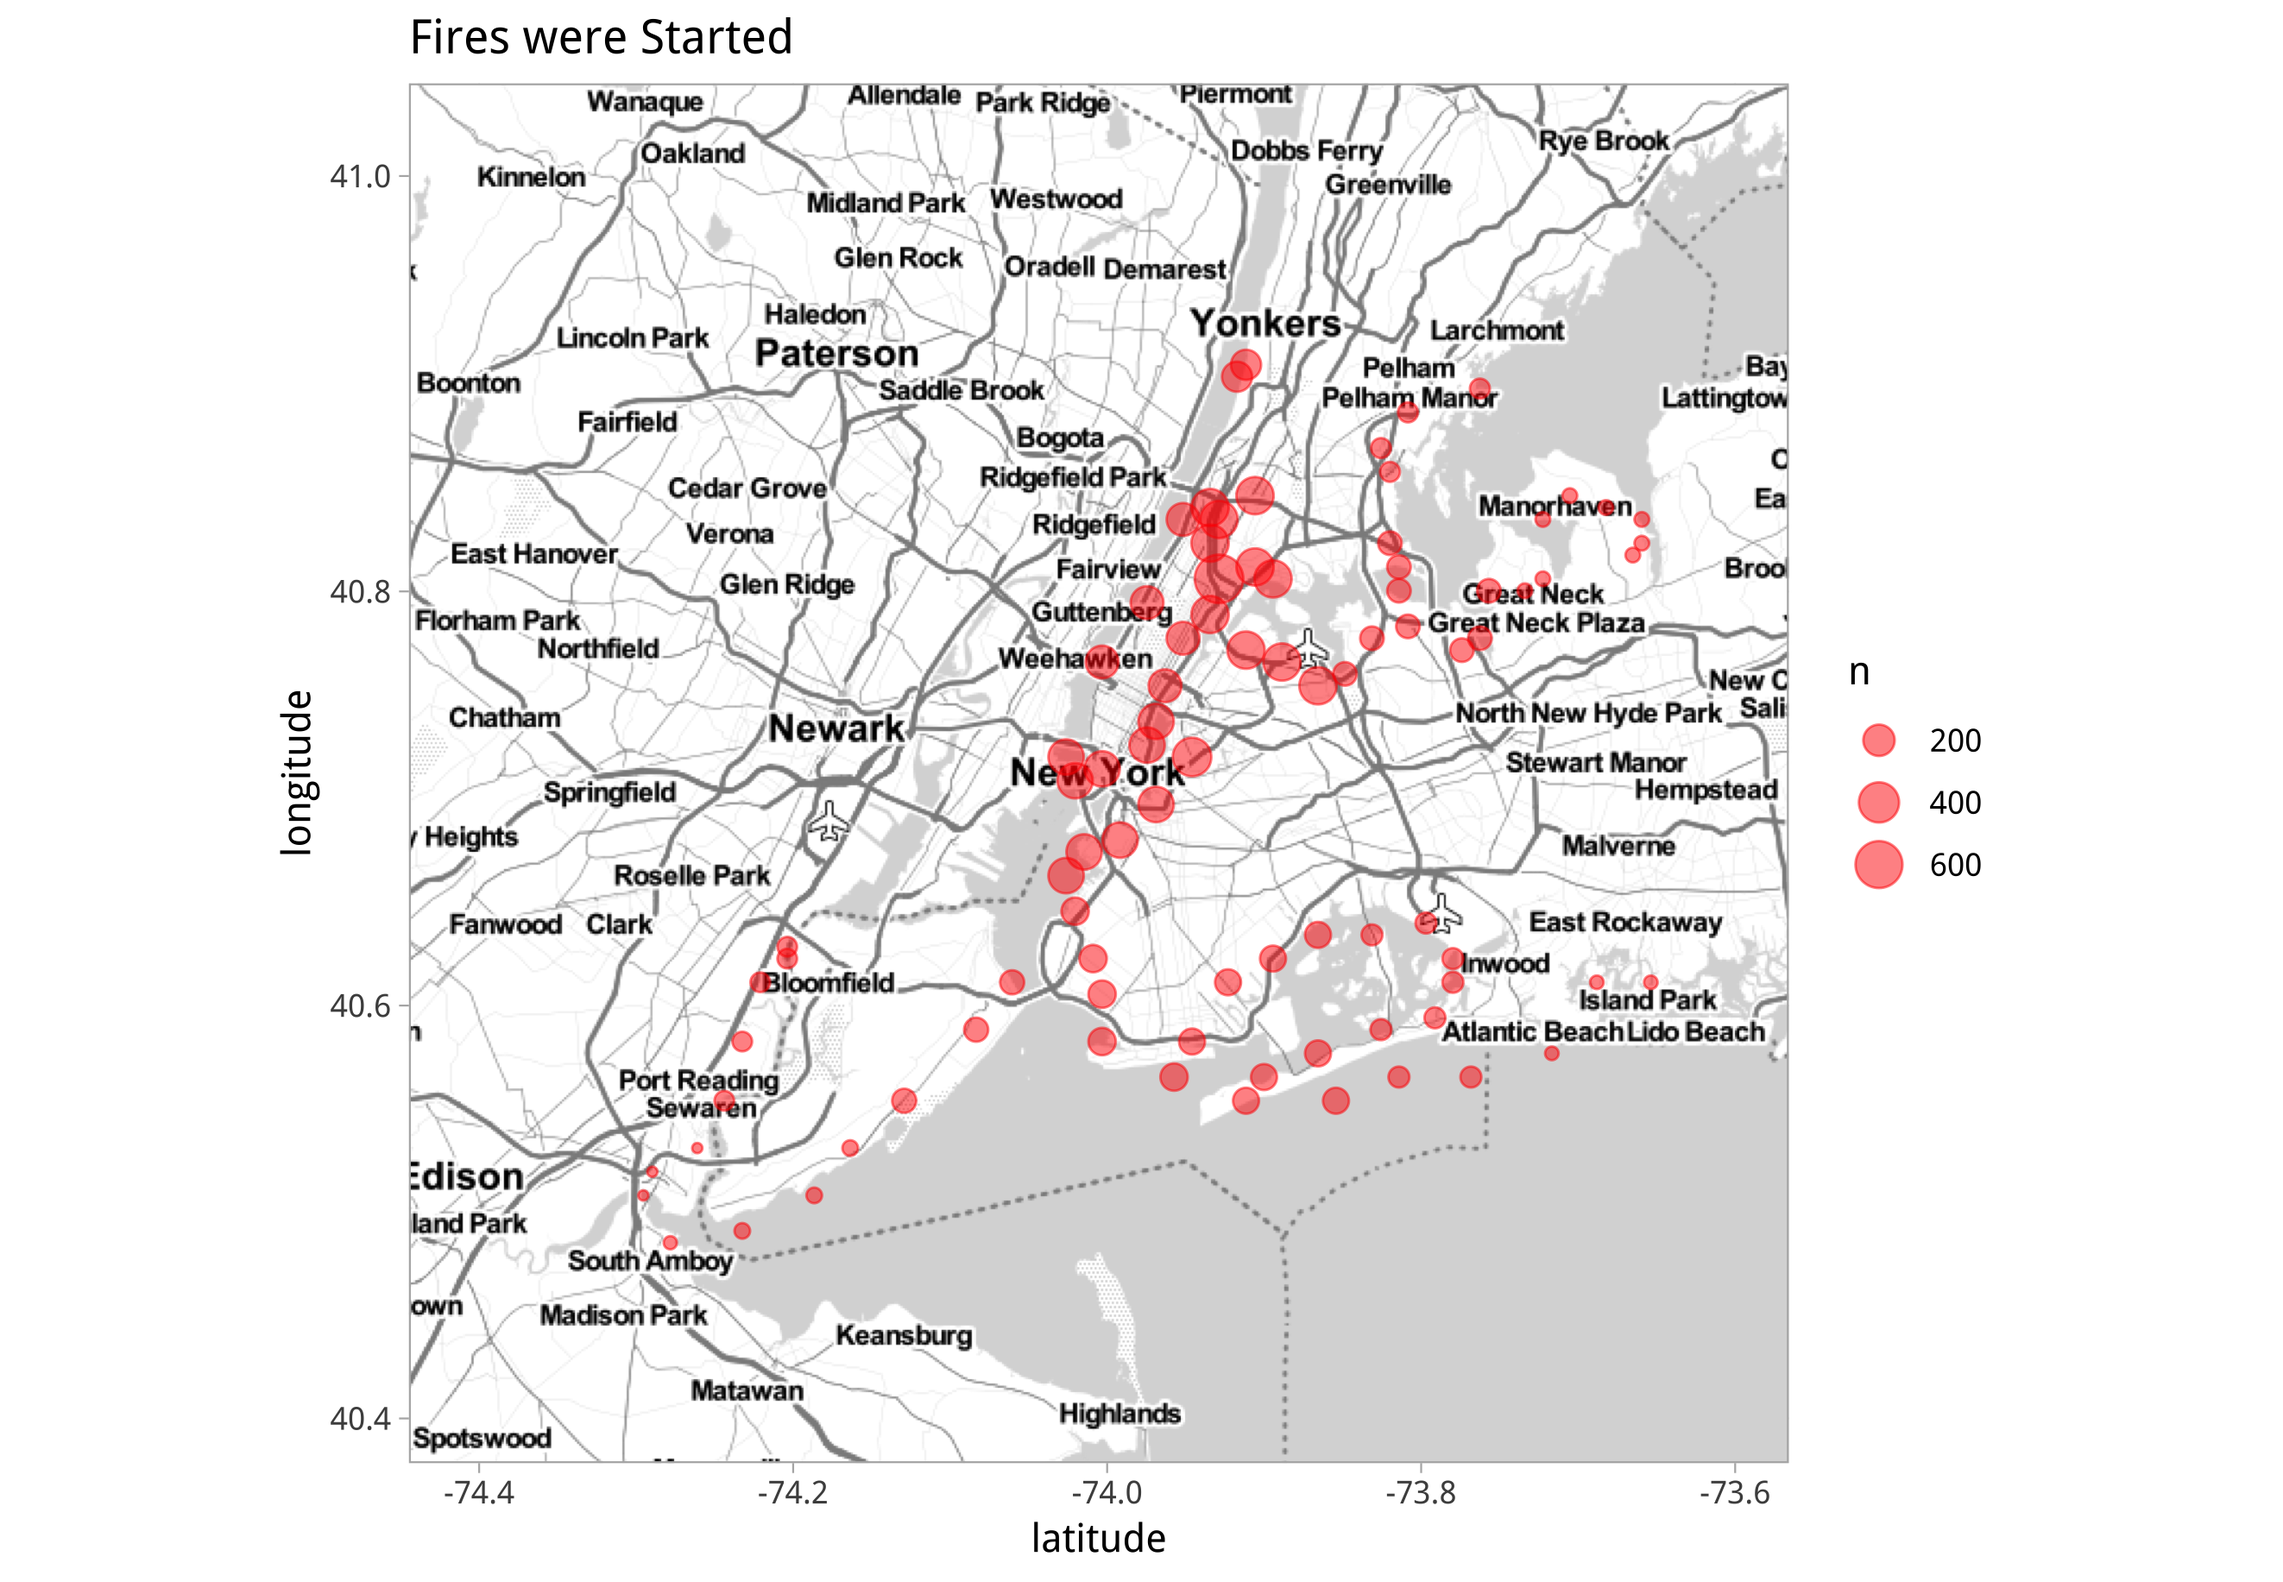
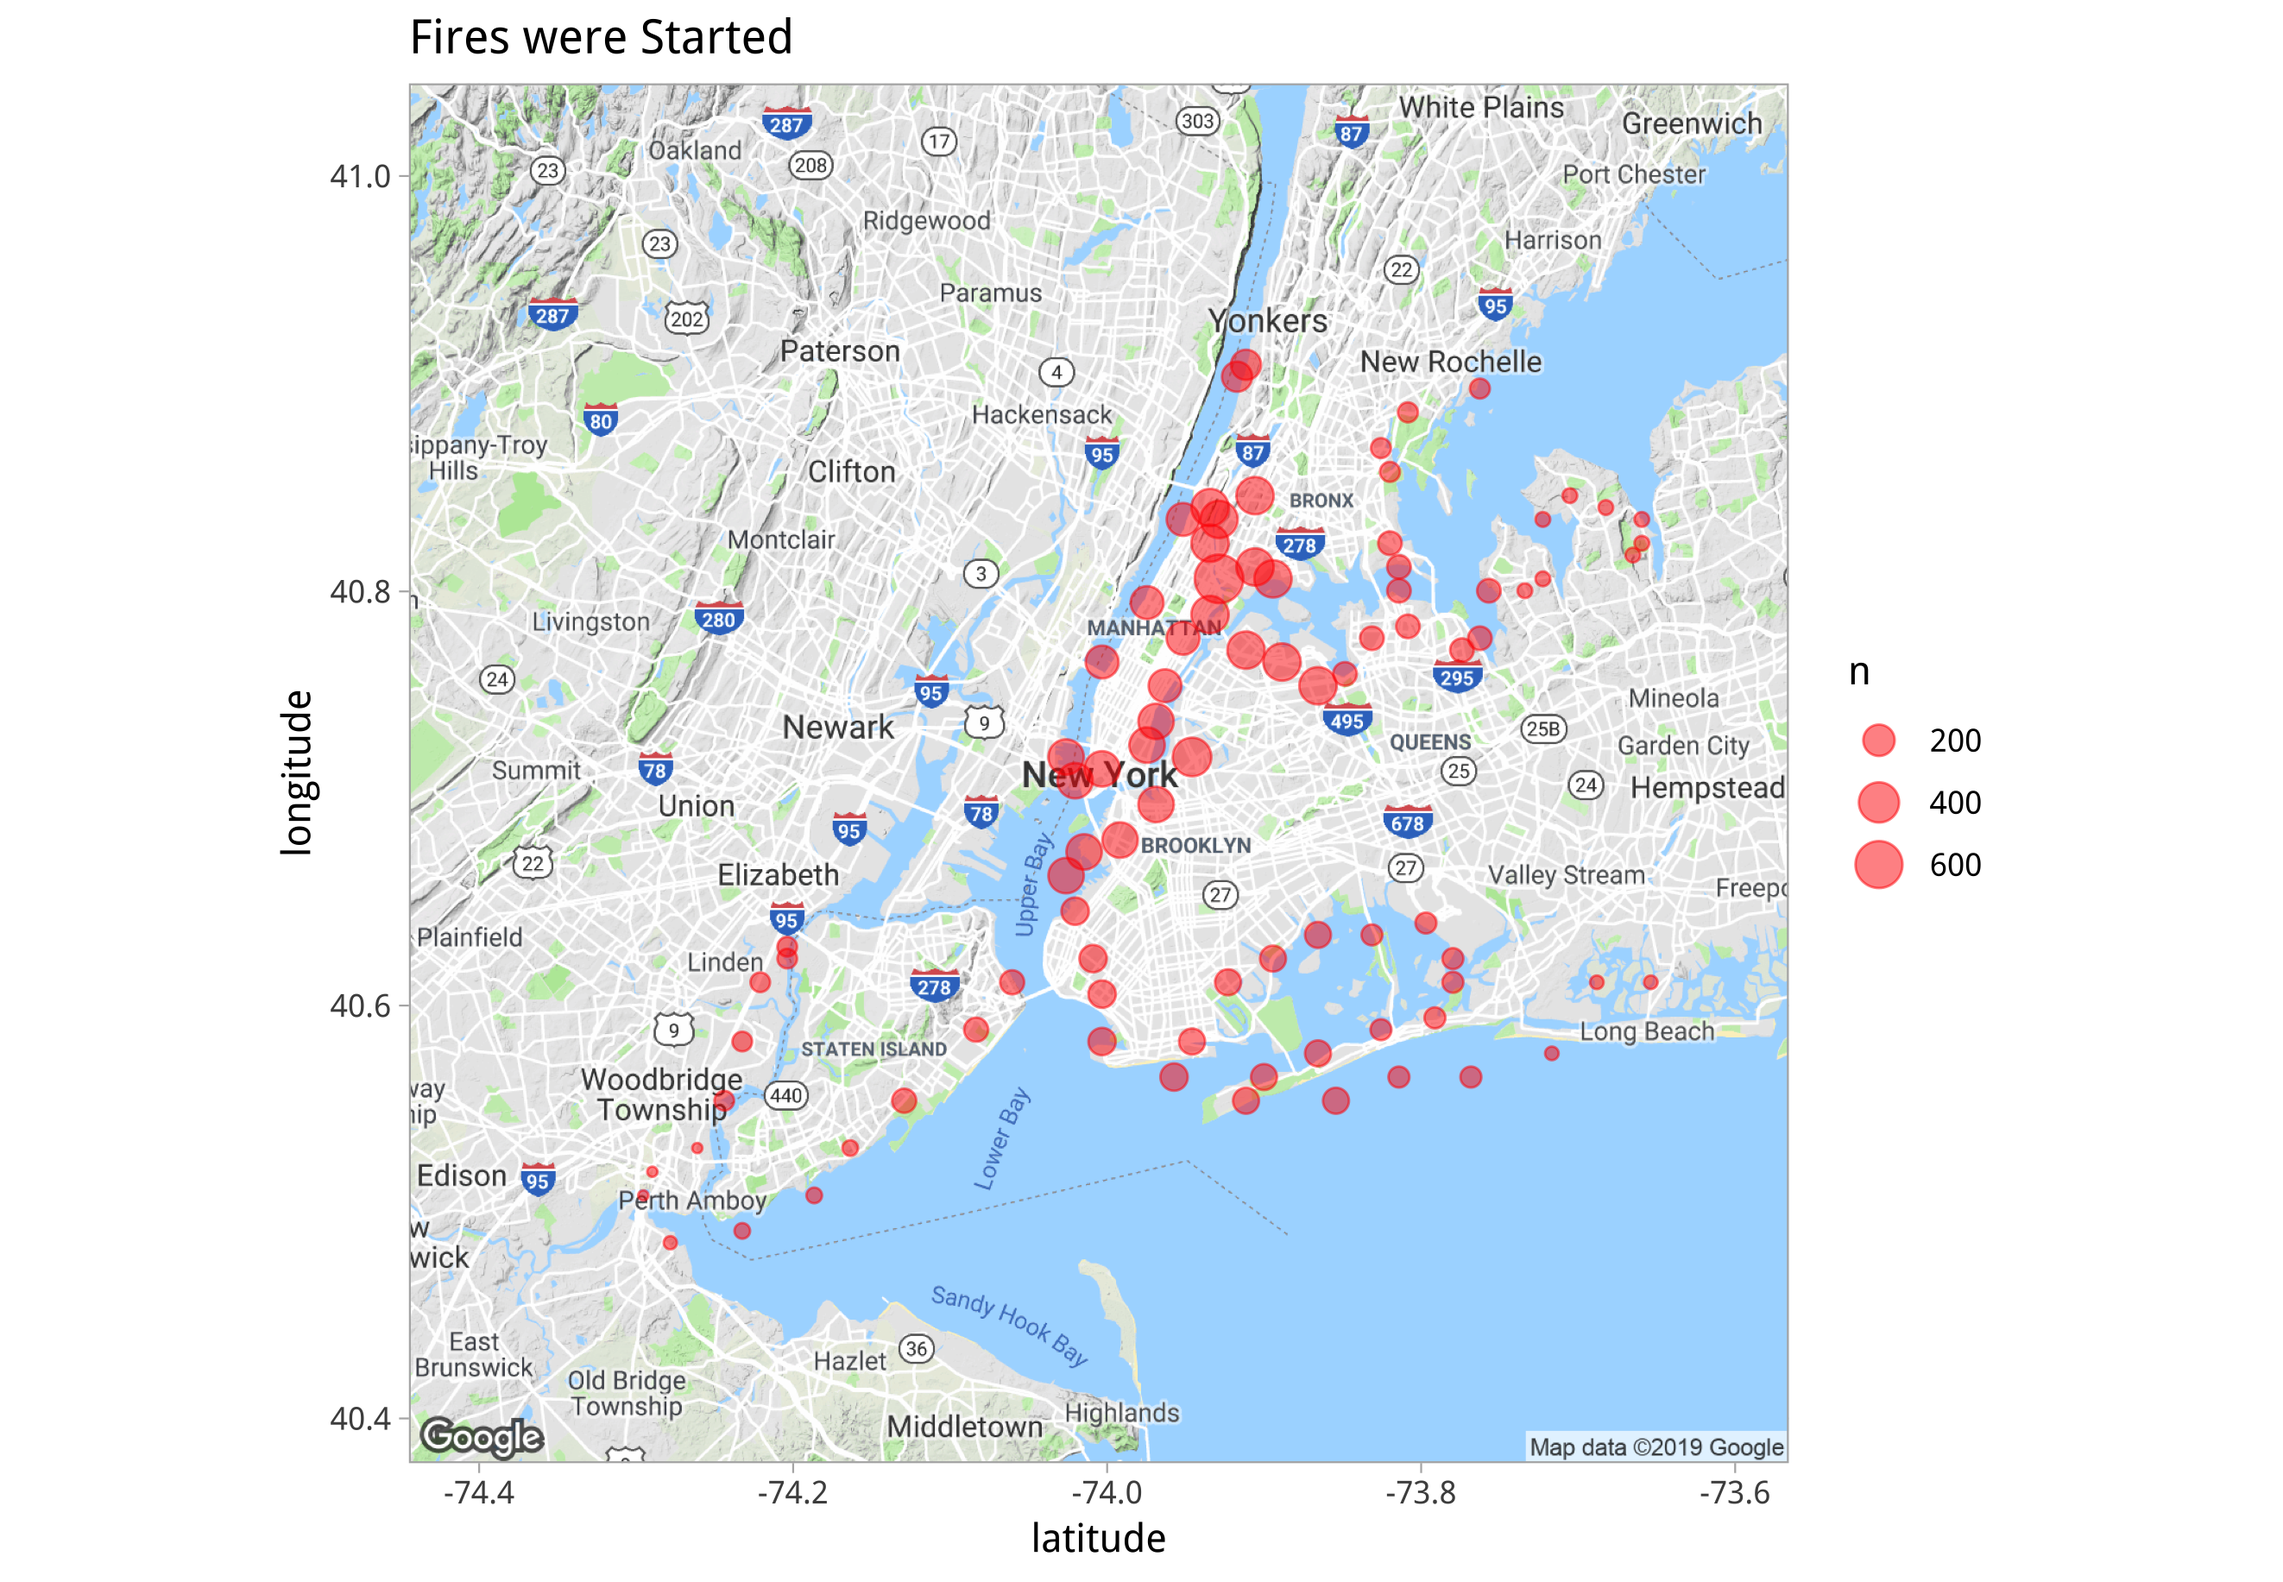
nix lat long truncation

diff --git a/docs/index.html b/docs/index.html
@@ -770,6 +770,8 @@ All functions are defined in [`didnt_start_it.R`](https://github.com/aedobbyn/ny
 
 ```r
 source(here::here("R", "didnt_start_it.R"))
+## Source : https://maps.googleapis.com/maps/api/staticmap?center=new%20york%20city&amp;zoom=10&amp;size=640x640&amp;scale=2&amp;maptype=terrain&amp;language=en-EN&amp;key=xxx
+## Source : https://maps.googleapis.com/maps/api/geocode/json?address=new%20york%20city&amp;key=xxx
 ```
 
 --
@@ -1081,27 +1083,16 @@ count_fires &lt;- function(tbl) {
 
 ## Analysis chunks of the pipeline
 
-or join on some `ggplot2::map_data`
+and plot them on a map
 
 
 ```r
-ggplot2::map_data("state", region = "new york") %&gt;%
-  as_tibble()
-## # A tibble: 495 x 6
-##     long   lat group order region   subregion
-##    &lt;dbl&gt; &lt;dbl&gt; &lt;dbl&gt; &lt;int&gt; &lt;chr&gt;    &lt;chr&gt;    
-##  1 -73.9  40.8     1     1 new york manhattan
-##  2 -73.9  40.8     1     2 new york manhattan
-##  3 -74.0  40.8     1     3 new york manhattan
-##  4 -74.0  40.8     1     4 new york manhattan
-##  5 -74.0  40.7     1     5 new york manhattan
-##  6 -74.0  40.7     1     6 new york manhattan
-##  7 -74.0  40.7     1     7 new york manhattan
-##  8 -74.0  40.7     1     8 new york manhattan
-##  9 -74.0  40.7     1     9 new york manhattan
-## 10 -74.0  40.8     1    10 new york manhattan
-## # … with 485 more rows
+get_map("new york city") %&gt;% ggmap()
+## Source : https://maps.googleapis.com/maps/api/staticmap?center=new%20york%20city&amp;zoom=10&amp;size=640x640&amp;scale=2&amp;maptype=terrain&amp;language=en-EN&amp;key=xxx
+## Source : https://maps.googleapis.com/maps/api/geocode/json?address=new%20york%20city&amp;key=xxx
 ```
+
+![](index_files/figure-html/unnamed-chunk-30-1.png)&lt;!-- --&gt;
 
 
 ---
@@ -1133,7 +1124,7 @@ What's the estimate of running the pipeline on a single tweet?
 ## Source : https://maps.googleapis.com/maps/api/geocode/json?address=60-15%20Calloway%20St%2C%20Queens&amp;key=xxx
 ## Source : https://maps.googleapis.com/maps/api/geocode/json?address=60-15%20Calloway%20St%2C%20Queens&amp;key=xxx
 ## Source : https://maps.googleapis.com/maps/api/geocode/json?address=60-15%20Calloway%20St%2C%20Queens&amp;key=xxx
-## [1] 305ms
+## [1] 396ms
 ```
 
 ???
@@ -1152,7 +1143,7 @@ Roughly how many **minutes** would the pipeline take for 3k tweets?
       * 3000)  # 3k tweets
        / 60 # 60 seconds in a minute
  ) 
-## [1] 15.2487
+## [1] 19.82239
 ```
 
 &lt;br&gt;
@@ -1161,7 +1152,7 @@ All our downstream mapping and counting analysis depends on these trips to and f
 
 If we tweak our code and want to make sure we can still run these downstream analyses on the most recent data,
 
-`drake` will save us **15 minutes** of our lives *and* we'll still rest assured that our downstream targets have the most up to date data.
+`drake` will save us **20 minutes** of our lives *and* we'll still rest assured that our downstream targets have the most up to date data.
 
 
 ---
@@ -1265,6 +1256,7 @@ devtools::session_info()
 ##  listenv       0.7.0      2018-01-21 [1]
 ##  lubridate     1.7.4      2018-04-11 [1]
 ##  magrittr      1.5        2014-11-22 [1]
+##  mapproj       1.2.6      2018-03-29 [1]
 ##  maps        * 3.3.0      2018-04-03 [1]
 ##  memoise       1.1.0      2018-10-26 [1]
 ##  mime          0.6        2018-10-05 [1]
@@ -1372,6 +1364,7 @@ devtools::session_info()
 ##  CRAN (R 3.5.0)                          
 ##  CRAN (R 3.5.0)                          
 ##  CRAN (R 3.5.2)                          
+##  CRAN (R 3.5.0)                          
 ##  CRAN (R 3.5.0)                          
 ##  CRAN (R 3.5.0)                          
 ##  CRAN (R 3.5.0)                          
